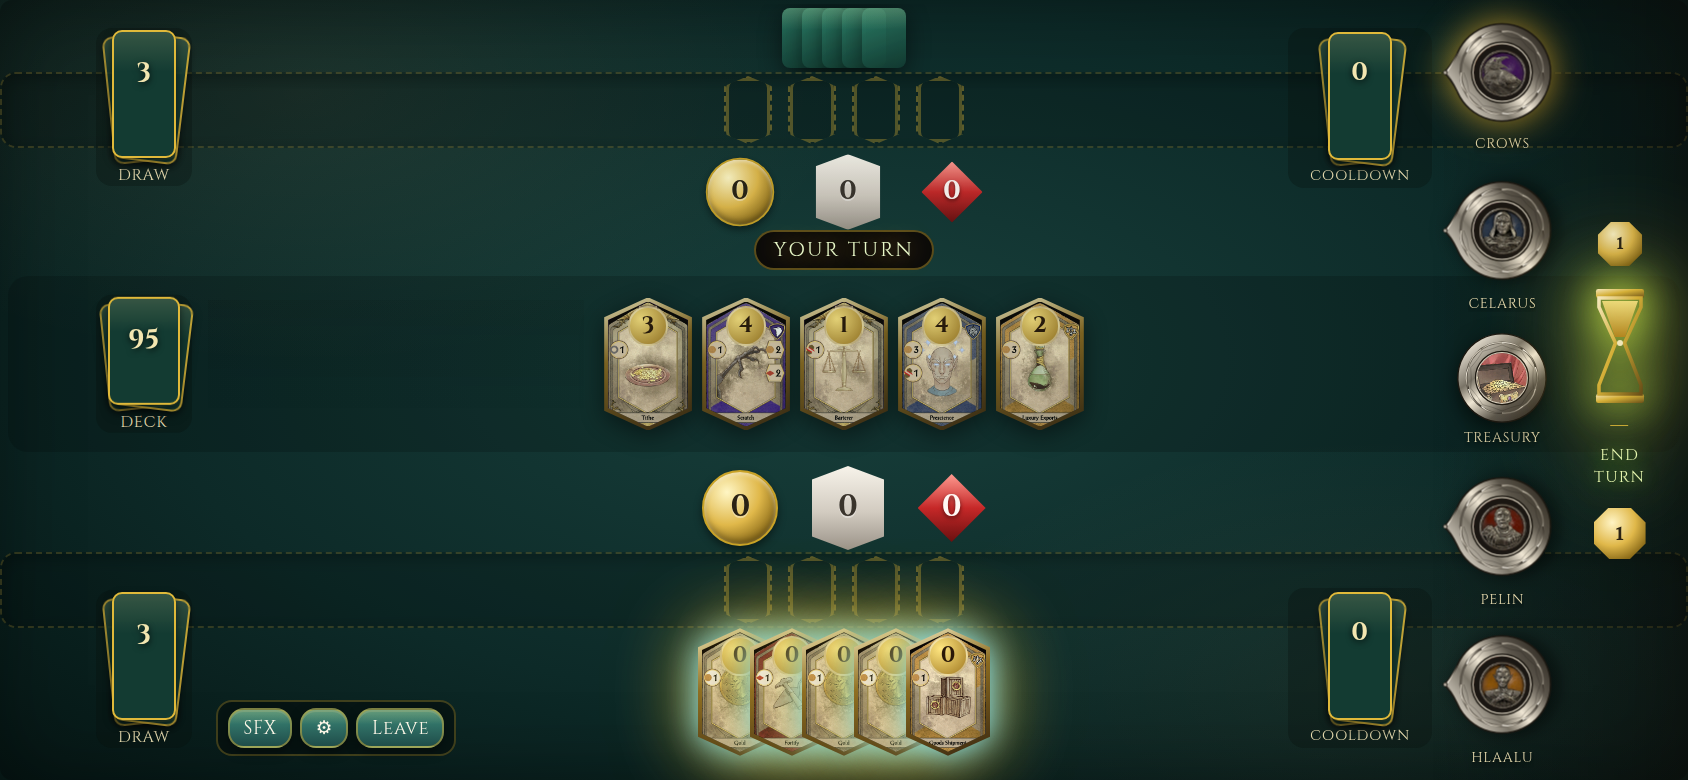
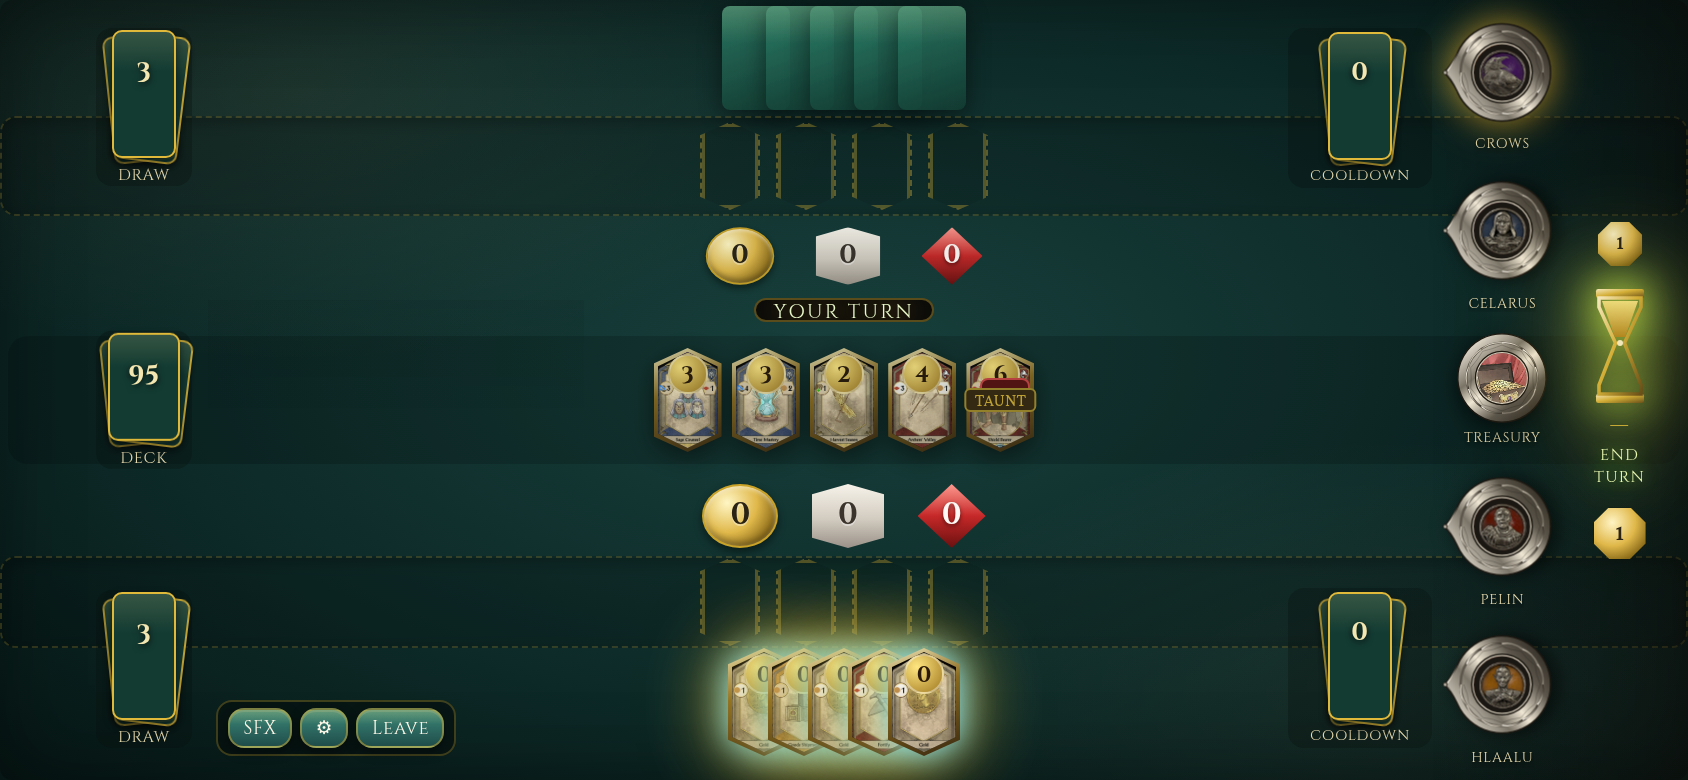
Give the landscape top seat full cards and keep the fold clear.
Rival hand cards are 52px and agents 44px, with resource rows and the turn chip clear of them. Refresh the build 56 review frames.

diff --git a/docs/css/board-pass.css b/docs/css/board-pass.css
@@ -1645,12 +1645,12 @@ body.is-landscape #match .felt-table {
   grid-template-rows:
     58px
     50px
-    34px
-    12px
-    82px
-    34px
-    50px
-    70px !important;
+    40px
+    14px
+    76px
+    40px
+    46px
+    66px !important;
 }
 
 body.is-landscape #match .felt-opp-hand {
@@ -1690,9 +1690,9 @@ body.is-landscape #match .agent-slot.filled,
 body.is-landscape #match .agent-slot.filled .card,
 body.is-landscape #match .card.agent-board {
   width: 30px !important;
-  height: 46px !important;
+  height: 44px !important;
   min-height: 0 !important;
-  max-height: 46px !important;
+  max-height: 44px !important;
 }
 
 body.is-landscape #match .tavern-zone .card {
@@ -1804,22 +1804,45 @@ body.is-landscape #match .events-rail .event-hex {
 body.is-landscape #match .you-fan,
 body.is-landscape #match #hand-zone {
   align-items: flex-start !important;
-  padding-top: 2px !important;
+  padding-top: 0 !important;
 }
 body.is-landscape #match #hand-zone .card,
 body.is-landscape #match #hand-zone button.card,
 body.is-landscape #match .you-fan .card {
   width: 36px !important;
-  height: 56px !important;
-  max-height: 56px !important;
+  height: 54px !important;
+  max-height: 54px !important;
   aspect-ratio: auto !important;
 }
 body.is-landscape #match .tavern-zone .card {
-  width: 36px !important;
-  height: 55px !important;
-  max-height: 55px !important;
+  width: 34px !important;
+  height: 52px !important;
+  max-height: 52px !important;
   min-height: 0 !important;
   aspect-ratio: auto !important;
+}
+body.is-landscape #match #opp-res,
+body.is-landscape #match #you-res {
+  min-height: 0 !important;
+  height: 100% !important;
+  max-height: 100% !important;
+  overflow: hidden !important;
+  align-self: stretch !important;
+}
+body.is-landscape #match #opp-res .eso-tok,
+body.is-landscape #match #you-res .eso-tok {
+  max-height: 32px !important;
+}
+body.is-landscape #match #turn-ind,
+body.is-landscape #match .turn-chip {
+  max-height: 12px !important;
+  height: 12px !important;
+  line-height: 12px !important;
+  padding: 0 0.55rem !important;
+  margin: 0 !important;
+  font-size: 0.62rem !important;
+  overflow: hidden !important;
+  align-self: center !important;
 }
 
 #match .card,

diff --git a/web/css/board-pass.css b/web/css/board-pass.css
@@ -1645,12 +1645,12 @@ body.is-landscape #match .felt-table {
   grid-template-rows:
     58px
     50px
-    34px
-    12px
-    82px
-    34px
-    50px
-    70px !important;
+    40px
+    14px
+    76px
+    40px
+    46px
+    66px !important;
 }
 
 body.is-landscape #match .felt-opp-hand {
@@ -1690,9 +1690,9 @@ body.is-landscape #match .agent-slot.filled,
 body.is-landscape #match .agent-slot.filled .card,
 body.is-landscape #match .card.agent-board {
   width: 30px !important;
-  height: 46px !important;
+  height: 44px !important;
   min-height: 0 !important;
-  max-height: 46px !important;
+  max-height: 44px !important;
 }
 
 body.is-landscape #match .tavern-zone .card {
@@ -1804,22 +1804,45 @@ body.is-landscape #match .events-rail .event-hex {
 body.is-landscape #match .you-fan,
 body.is-landscape #match #hand-zone {
   align-items: flex-start !important;
-  padding-top: 2px !important;
+  padding-top: 0 !important;
 }
 body.is-landscape #match #hand-zone .card,
 body.is-landscape #match #hand-zone button.card,
 body.is-landscape #match .you-fan .card {
   width: 36px !important;
-  height: 56px !important;
-  max-height: 56px !important;
+  height: 54px !important;
+  max-height: 54px !important;
   aspect-ratio: auto !important;
 }
 body.is-landscape #match .tavern-zone .card {
-  width: 36px !important;
-  height: 55px !important;
-  max-height: 55px !important;
+  width: 34px !important;
+  height: 52px !important;
+  max-height: 52px !important;
   min-height: 0 !important;
   aspect-ratio: auto !important;
+}
+body.is-landscape #match #opp-res,
+body.is-landscape #match #you-res {
+  min-height: 0 !important;
+  height: 100% !important;
+  max-height: 100% !important;
+  overflow: hidden !important;
+  align-self: stretch !important;
+}
+body.is-landscape #match #opp-res .eso-tok,
+body.is-landscape #match #you-res .eso-tok {
+  max-height: 32px !important;
+}
+body.is-landscape #match #turn-ind,
+body.is-landscape #match .turn-chip {
+  max-height: 12px !important;
+  height: 12px !important;
+  line-height: 12px !important;
+  padding: 0 0.55rem !important;
+  margin: 0 !important;
+  font-size: 0.62rem !important;
+  overflow: hidden !important;
+  align-self: center !important;
 }
 
 #match .card,

diff --git a/docs/review/board-pr30/README.md b/docs/review/board-pr30/README.md
@@ -1,4 +1,19 @@
-# Board PR review shots (build 55)
+# Board PR review shots (build 56)
+
+Rebased onto Club build 55. Portrait lock is unchanged (patron column 328, DRAW left 6, HUD top 168.8, Treasury face 24.63). Landscape top-seat hand cards are 52px tall and agents 44px, fully inside the felt. Hold opens the dossier and does not play or pick. Crows landscape inspect shows Favored, Neutral, and Unfavored inside the sheet; the confirm actions stay on screen.
+
+| Build 56 check | File |
+|---|---|
+| Landscape top seat (hand + agents) | b56-landscape-top-seat.png |
+| Landscape Crows inspect | b56-landscape-crows-inspect.png |
+| Landscape Crows confirm | b56-landscape-crows-confirm.png |
+| Portrait targeting hold | b56-portrait-target-inspect.png |
+| Rotate back to portrait | b56-rotate-to-portrait.png |
+| Hotseat patron pick | b56-hotseat-patron-pick.png |
+| Portrait felt | after-portrait-390x844.png |
+| Landscape felt | after-landscape-844x390.png |
+
+# Earlier build 55 frames
 
 Puppeteer 390×844 and 844×390, mid-match, after the deal flyers settle. Portrait lock numbers match build 51. Layout-fb overlap hits on the empty board are all false. A second pass plays three Golds and checks that played-effect hexes no longer cover the tavern DECK.
 
